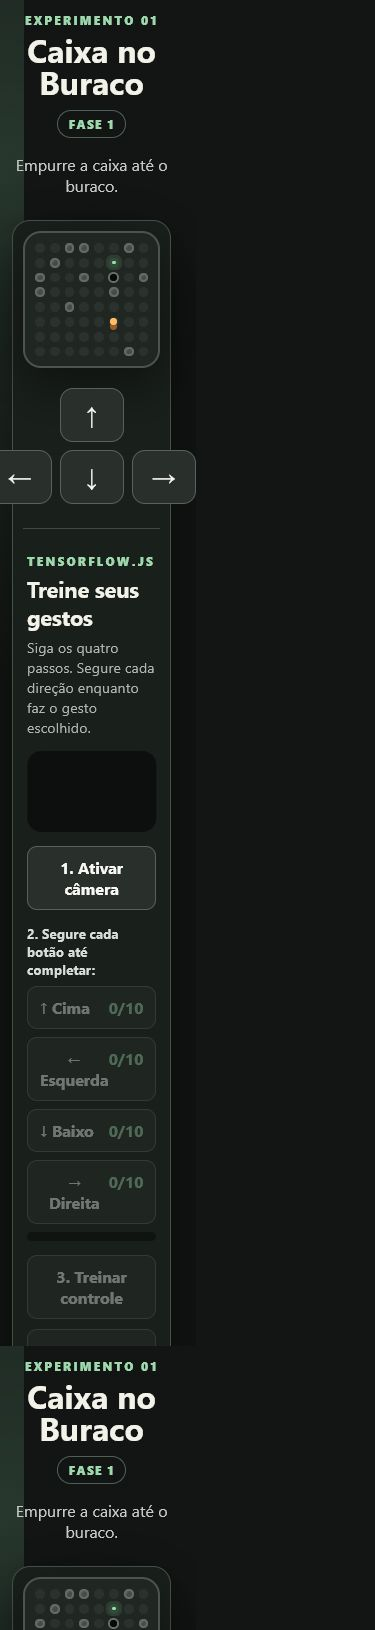
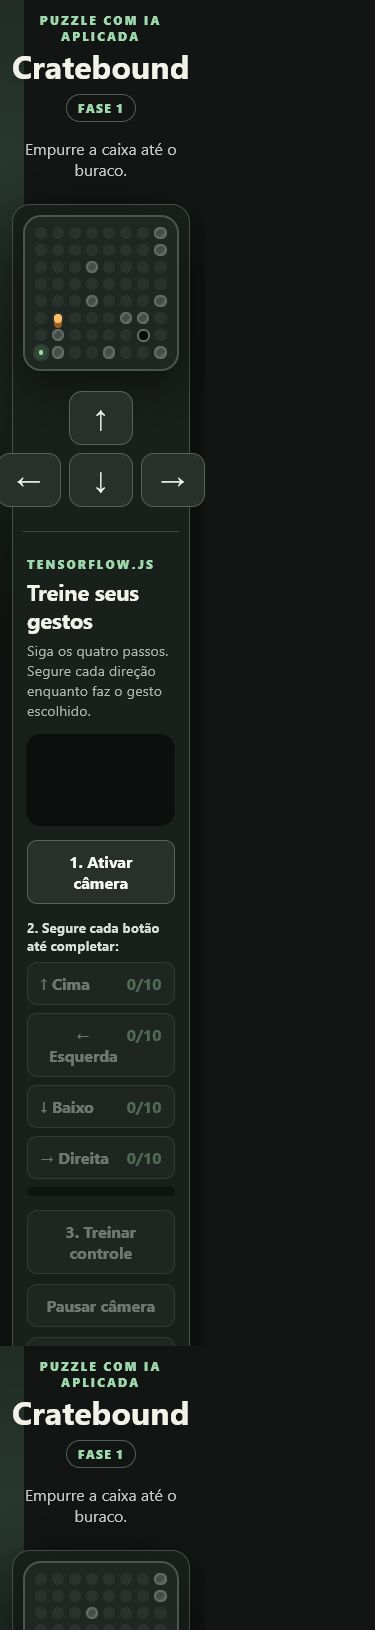
feat: renomear jogo para Cratebound

diff --git a/index.html b/index.html
@@ -3,7 +3,7 @@
   <head>
     <meta charset="UTF-8" />
     <meta name="viewport" content="width=device-width, initial-scale=1.0" />
-    <title>Caixa no Buraco</title>
+    <title>Cratebound</title>
     <link rel="stylesheet" href="./styles.css" />
     <script defer src="https://cdn.jsdelivr.net/npm/@tensorflow/tfjs@4.22.0/dist/tf.min.js"></script>
     <script defer src="https://cdn.jsdelivr.net/npm/@tensorflow-models/mobilenet@2.1.1/dist/mobilenet.min.js"></script>
@@ -11,8 +11,8 @@
   <body>
     <main class="game">
       <header>
-        <p class="eyebrow">Experimento 01</p>
-        <h1>Caixa no Buraco</h1>
+        <p class="eyebrow">Puzzle com IA aplicada</p>
+        <h1>Cratebound</h1>
         <p class="stage" data-stage>Fase 1</p>
         <p class="status" data-status aria-live="polite"></p>
       </header>

diff --git a/codepen/index.html b/codepen/index.html
@@ -5,8 +5,8 @@
 
 <main class="game">
   <header>
-    <p class="eyebrow">Experimento 01</p>
-    <h1>Caixa no Buraco</h1>
+    <p class="eyebrow">Puzzle com IA aplicada</p>
+    <h1>Cratebound</h1>
     <p class="stage" data-stage>Fase 1</p>
     <p class="status" data-status aria-live="polite"></p>
   </header>

diff --git a/README.md b/README.md
@@ -1,18 +1,18 @@
 <div align="center">
 
-# Caixa no Buraco
+# Cratebound
 
-### A browser puzzle controlled by your keyboard — or by gestures you teach in real time.
+### Teach the gesture. Guide the crate.
 
-[![CI](https://github.com/claudneysessa/caixa-no-buraco-ai/actions/workflows/ci.yml/badge.svg)](https://github.com/claudneysessa/caixa-no-buraco-ai/actions/workflows/ci.yml)
+[![CI](https://github.com/claudneysessa/cratebound/actions/workflows/ci.yml/badge.svg)](https://github.com/claudneysessa/cratebound/actions/workflows/ci.yml)
 [![JavaScript](https://img.shields.io/badge/JavaScript-ES%20Modules-F7DF1E?logo=javascript&logoColor=000)](https://developer.mozilla.org/docs/Web/JavaScript)
 [![TensorFlow.js](https://img.shields.io/badge/TensorFlow.js-4.22-FF6F00?logo=tensorflow&logoColor=fff)](https://www.tensorflow.org/js)
 [![Tests](https://img.shields.io/badge/tests-16%20passing-72d892)](#quality-engineering)
 [![No build](https://img.shields.io/badge/build-none-9fe3bd)](#run-locally)
 
-[Play live](https://claudneysessa.github.io/caixa-no-buraco-ai/) · [Português](README.pt-BR.md) · [Architecture](docs/ARCHITECTURE.md) · [Contributing](CONTRIBUTING.md)
+[Play live](https://claudneysessa.github.io/cratebound/) · [Português](README.pt-BR.md) · [Architecture](docs/ARCHITECTURE.md) · [Contributing](CONTRIBUTING.md)
 
-![Caixa no Buraco running in the browser](docs/assets/gameplay.gif)
+![Cratebound running in the browser](docs/assets/gameplay.gif)
 
 </div>
 
@@ -21,8 +21,8 @@
 Artificial intelligence becomes more valuable when it is treated as an
 engineering component rather than a demo effect.
 
-**Caixa no Buraco** explores that idea through a small, visual problem: push a
-box into a hole across randomly generated puzzle rooms. The game can be played
+**Cratebound** explores that idea through a small, visual problem: push a box
+into its destination across randomly generated puzzle rooms. The game can be played
 with regular input controls, then extended with a webcam-based classifier that
 learns four gestures chosen by the player.
 
@@ -52,7 +52,7 @@ DOM. AI is one input adapter among others — not the architecture itself.
 The animation below is an actual run of the application. The player moves into
 position, pushes the box into the hole and triggers the next level.
 
-[**Open the live HTTPS demo →**](https://claudneysessa.github.io/caixa-no-buraco-ai/)
+[**Open the live HTTPS demo →**](https://claudneysessa.github.io/cratebound/)
 
 ![Gameplay: solving a procedurally generated level](docs/assets/gameplay.gif)
 
@@ -139,8 +139,8 @@ Requirements:
 - Python 3 or any static HTTP server to serve native ES modules.
 
 ```bash
-git clone https://github.com/claudneysessa/caixa-no-buraco-ai.git
-cd caixa-no-buraco-ai
+git clone https://github.com/claudneysessa/cratebound.git
+cd cratebound
 python -m http.server 8765
 ```
 
@@ -212,7 +212,7 @@ Engineering, currently specializing in Software Engineering with Applied AI.
 
 ## Authorship
 
-**Caixa no Buraco is an original project created and developed in full by
+**Cratebound is an original project created and developed in full by
 Claudney Sarti Sessa.** It is not a clone, copy or adaptation of another game
 or application. Third-party libraries and platforms are identified in the
 technology stack as tools and retain their respective ownership and licenses.

diff --git a/README.pt-BR.md b/README.pt-BR.md
@@ -1,17 +1,17 @@
 <div align="center">
 
-# Caixa no Buraco
+# Cratebound
 
-### Um puzzle no navegador controlado pelo teclado — ou por gestos ensinados por você em tempo real.
+### Ensine o gesto. Conduza a caixa.
 
-[![CI](https://github.com/claudneysessa/caixa-no-buraco-ai/actions/workflows/ci.yml/badge.svg)](https://github.com/claudneysessa/caixa-no-buraco-ai/actions/workflows/ci.yml)
+[![CI](https://github.com/claudneysessa/cratebound/actions/workflows/ci.yml/badge.svg)](https://github.com/claudneysessa/cratebound/actions/workflows/ci.yml)
 [![JavaScript](https://img.shields.io/badge/JavaScript-ES%20Modules-F7DF1E?logo=javascript&logoColor=000)](https://developer.mozilla.org/pt-BR/docs/Web/JavaScript)
 [![TensorFlow.js](https://img.shields.io/badge/TensorFlow.js-4.22-FF6F00?logo=tensorflow&logoColor=fff)](https://www.tensorflow.org/js)
 [![Testes](https://img.shields.io/badge/testes-16%20aprovados-72d892)](#engenharia-de-qualidade)
 
-[Jogar agora](https://claudneysessa.github.io/caixa-no-buraco-ai/) · [English](README.md) · [Arquitetura](docs/ARCHITECTURE.md) · [Como contribuir](CONTRIBUTING.md)
+[Jogar agora](https://claudneysessa.github.io/cratebound/) · [English](README.md) · [Arquitetura](docs/ARCHITECTURE.md) · [Como contribuir](CONTRIBUTING.md)
 
-![Caixa no Buraco em execução no navegador](docs/assets/gameplay.gif)
+![Cratebound em execução no navegador](docs/assets/gameplay.gif)
 
 </div>
 
@@ -20,7 +20,7 @@
 Inteligência artificial gera mais valor quando é tratada como um componente de
 engenharia, e não apenas como um efeito de demonstração.
 
-**Caixa no Buraco** investiga essa ideia com um problema pequeno e visual:
+**Cratebound** investiga essa ideia com um problema pequeno e visual:
 empurrar uma caixa até um buraco em salas geradas proceduralmente. Além dos
 controles convencionais, o jogador pode treinar no próprio navegador um
 classificador que aprende quatro gestos escolhidos por ele.
@@ -51,7 +51,7 @@ permanecem independentes do TensorFlow.js, da webcam, do teclado e do DOM. A IA
 Esta animação foi capturada em uma execução real. O jogador se posiciona,
 empurra a caixa até o buraco e aciona a próxima fase.
 
-[**Abrir a demonstração HTTPS →**](https://claudneysessa.github.io/caixa-no-buraco-ai/)
+[**Abrir a demonstração HTTPS →**](https://claudneysessa.github.io/cratebound/)
 
 ![Partida real concluindo uma fase](docs/assets/gameplay.gif)
 
@@ -123,8 +123,8 @@ Pré-requisitos:
 - Python 3 ou qualquer servidor HTTP estático para servir os módulos nativos.
 
 ```bash
-git clone https://github.com/claudneysessa/caixa-no-buraco-ai.git
-cd caixa-no-buraco-ai
+git clone https://github.com/claudneysessa/cratebound.git
+cd cratebound
 python -m http.server 8765
 ```
 
@@ -197,7 +197,7 @@ Aplicada.
 
 ## Autoria
 
-**Caixa no Buraco é um projeto original, integralmente criado e desenvolvido por
+**Cratebound é um projeto original, integralmente criado e desenvolvido por
 Claudney Sarti Sessa.** Não é clone, cópia ou adaptação de outro jogo ou
 aplicativo. As bibliotecas e plataformas de terceiros estão identificadas na
 seção de tecnologias e preservam suas respectivas titularidades e licenças.

diff --git a/CHANGELOG.md b/CHANGELOG.md
@@ -29,6 +29,14 @@ Todas as alterações relevantes deste projeto serão registradas neste arquivo.
 - Removida a redação que poderia sugerir adaptação de exemplos de terceiros.
 - Mantida a distinção entre autoria do projeto e titularidade das bibliotecas e plataformas utilizadas.
 
+### 12:06:53 -03:00
+
+- Iniciado o rebranding integral do jogo para `Cratebound`.
+- Atualizados o título da aplicação modular, a versão CodePen, os metadados e a documentação bilíngue.
+- Adotadas as chamadas `Teach the gesture. Guide the crate.` e `Ensine o gesto. Conduza a caixa.`.
+- Preparados os novos endereços do repositório e do GitHub Pages.
+- Preservado o caminho acadêmico local `D1.M2.A1` para não quebrar a organização da disciplina.
+
 ## 2026-07-29
 
 ### 20:53:45 -03:00

diff --git a/SECURITY.md b/SECURITY.md
@@ -16,6 +16,6 @@ Security fixes are applied to the latest version on the default branch.
 ## Reporting a vulnerability
 
 Please report suspected vulnerabilities privately through
-[GitHub's private vulnerability reporting](https://github.com/claudneysessa/caixa-no-buraco-ai/security/advisories/new).
+[GitHub's private vulnerability reporting](https://github.com/claudneysessa/cratebound/security/advisories/new).
 Include reproduction steps, affected browsers and the potential impact. Avoid
 opening a public issue before the report has been reviewed.

diff --git a/docs/ARCHITECTURE.md b/docs/ARCHITECTURE.md
@@ -1,7 +1,7 @@
 # Architecture
 
-This document describes the boundaries and trade-offs behind **Caixa no
-Buraco**. It complements the product-oriented overview in the main README.
+This document describes the boundaries and trade-offs behind **Cratebound**. It
+complements the product-oriented overview in the main README.
 
 ## Design goals
 

diff --git a/CONTRIBUTING.md b/CONTRIBUTING.md
@@ -1,6 +1,6 @@
 # Contributing
 
-Thank you for considering a contribution to **Caixa no Buraco**.
+Thank you for considering a contribution to **Cratebound**.
 
 ## Development workflow
 
